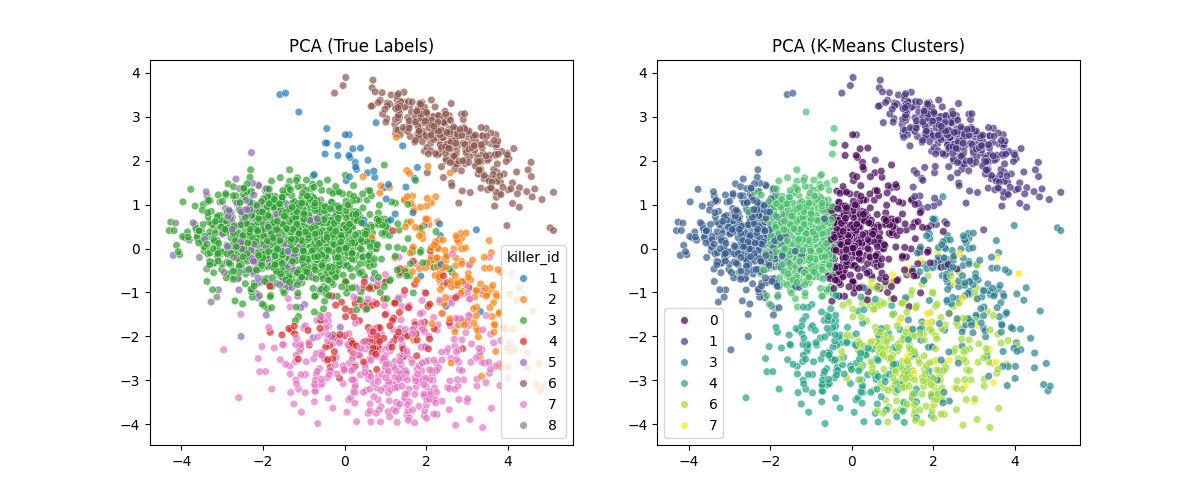
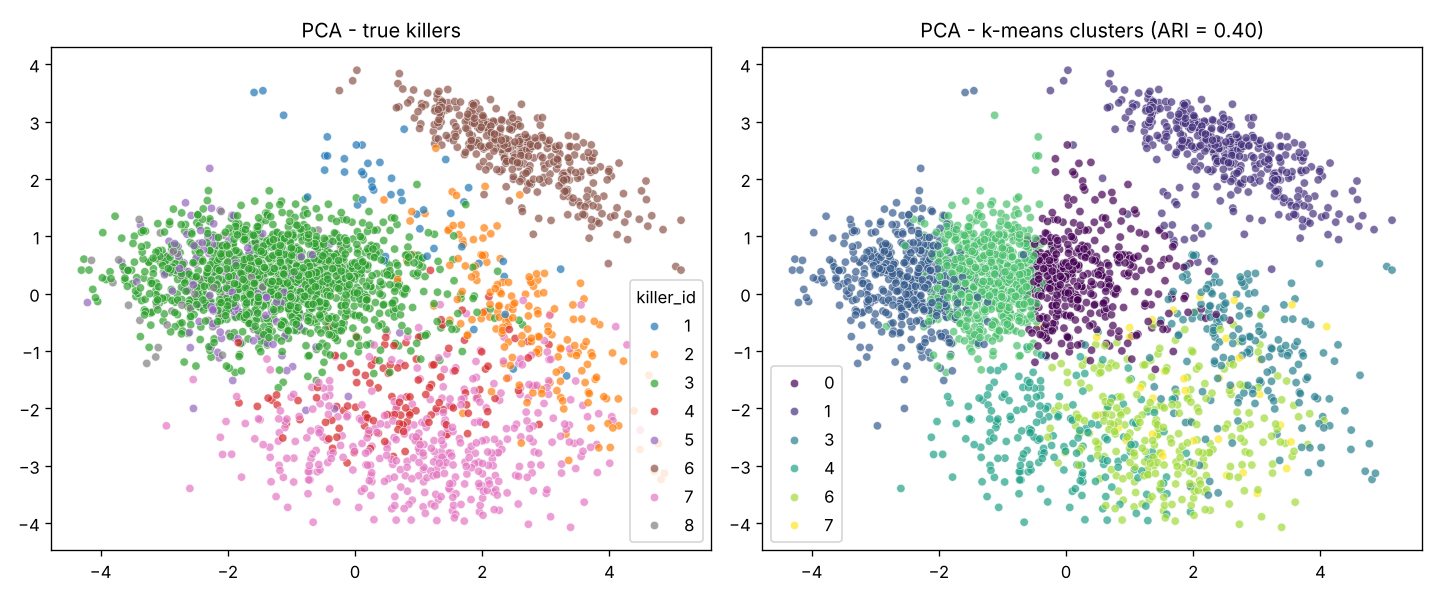
Add license, real results and class balancing

diff --git a/who_is_the_killer.py b/who_is_the_killer.py
@@ -74,6 +74,10 @@ def make_models():
         "SVM (RBF kernel)": make_pipeline(
             make_preprocessor(), SVC(kernel="rbf", random_state=SEED)
         ),
+        # Same SVM, but mistakes on rare killers cost more (weights inverse to class size).
+        "SVM (RBF, balanced weights)": make_pipeline(
+            make_preprocessor(), SVC(kernel="rbf", class_weight="balanced", random_state=SEED)
+        ),
     }
 
 
@@ -187,6 +191,25 @@ def predict_test(train, val, test, model_name, out_dir):
     submission.to_csv(out_dir / "submission.csv", index=False)
     print(f"Saved {len(submission)} predictions to {out_dir / 'submission.csv'}")
 
+    # If the TEST crimes come with their true killer, score the final model once on them.
+    if test[TARGET].notna().all():
+        truth, pred = test[TARGET].astype(int), submission[TARGET]
+        print(f"TEST ({model_name}, trained on TRAIN + VAL): "
+              f"accuracy = {accuracy_score(truth, pred):.4f}, "
+              f"balanced accuracy = {balanced_accuracy_score(truth, pred):.4f}, "
+              f"macro F1 = {f1_score(truth, pred, average='macro'):.4f}")
+
+
+def location_baseline(train, val):
+    """How far do we get with latitude and longitude alone?"""
+    where = ["latitude", "longitude"]
+    model = make_pipeline(ColumnTransformer([("num", StandardScaler(), where)]),
+                          SVC(kernel="rbf", random_state=SEED))
+    model.fit(train[FEATURES], train[TARGET])
+    pred = model.predict(val[FEATURES])
+    print(f"Location-only SVM (VAL): accuracy = {accuracy_score(val[TARGET], pred):.4f}, "
+          f"macro F1 = {f1_score(val[TARGET], pred, average='macro'):.4f}")
+
 
 def main():
     parser = argparse.ArgumentParser(description=__doc__.splitlines()[0])
@@ -208,6 +231,7 @@ def main():
     args.out.mkdir(parents=True, exist_ok=True)
     exploratory_plots(train, args.out)
     best = evaluate_models(train, val, args.out)
+    location_baseline(train, val)
     unsupervised(train, args.out)
     predict_test(train, val, test, best, args.out)
 

diff --git a/README.md b/README.md
@@ -8,13 +8,13 @@ Identifying which of 8 serial killers committed each crime, using classical patt
 
 ## The problem
 
-The "Piraeus Vice" dataset has 4,800 crimes. Each crime has the time, place, victim, weather, weapon and scene type, and the solved crimes also have the killer (1–8). The task is to train models on the solved crimes and name the most likely killer for each unsolved one.
+The "Piraeus Vice" dataset has 4,800 crimes. Each crime has the time, place, victim, weather, weapon and scene type, plus the killer (1–8). The task is to learn from known cases and name the most likely killer for new ones.
 
-| Split | Use |
-|---|---|
-| TRAIN | fit the models |
-| VAL | compare the models |
-| TEST | unsolved crimes, predicted at the end |
+| Split | Crimes | Use |
+|---|---|---|
+| TRAIN | 2,636 | fit the models |
+| VAL | 958 | compare the models |
+| TEST | 1,206 | held out, used once at the end |
 
 **Features:** 8 continuous (`hour_float`, `latitude`, `longitude`, `victim_age`, `temp_c`, `humidity`, `dist_precinct_km`, `pop_density`) and 4 categorical (`weapon_code`, `scene_type`, `weather`, `vic_gender`).
 
@@ -23,74 +23,82 @@ The "Piraeus Vice" dataset has 4,800 crimes. Each crime has the time, place, vic
 1. **Exploratory analysis:** class balance, crime locations, feature distributions.
 2. **Gaussian MLE per killer:** mean and covariance of the continuous features for each class.
 3. **Generative vs discriminative models:** Gaussian Naive Bayes, compared with Logistic Regression, an MLP (100 → 50 neurons) and an SVM with an RBF kernel. Continuous features are standardised and categorical ones one-hot encoded, inside scikit-learn pipelines.
-4. **Unsupervised view:** PCA for visualisation, then k-means with k = 8, to see whether the killers form natural clusters without using the labels.
-5. **Final prediction:** the best model is retrained on TRAIN + VAL and predicts the TEST crimes.
+4. **Class imbalance:** the same SVM with balanced class weights, so that mistakes on rare killers cost more.
+5. **Unsupervised view:** PCA for visualisation, then k-means with k = 8, to see whether the killers form natural clusters without using the labels.
+6. **Final evaluation:** the best model is retrained on TRAIN + VAL and scored once on TEST.
 
 ## Results
 
-Validation accuracy (958 crimes):
+Validation set (958 crimes):
 
-| Model | Accuracy |
-|---|---|
-| Gaussian Naive Bayes (continuous features only) | 0.833 |
-| Logistic Regression | 0.943 |
-| MLP (100, 50) | 0.936 |
-| **SVM (RBF kernel)** | **0.947** |
+| Model | Accuracy | Balanced accuracy | Macro F1 |
+|---|---|---|---|
+| Gaussian Naive Bayes (continuous features only) | 0.833 | 0.768 | 0.707 |
+| Logistic Regression | 0.943 | 0.834 | 0.856 |
+| MLP (100, 50) | 0.936 | 0.821 | 0.836 |
+| **SVM (RBF kernel)** | **0.947** | 0.839 | **0.862** |
+| SVM (RBF, balanced weights) | 0.928 | **0.886** | 0.854 |
 
-The discriminative models clearly beat Naive Bayes, and the SVM came out on top. Location turned out to be the most informative feature, because most killers operate in their own area of the city.
+The discriminative models clearly beat Naive Bayes. The plain SVM has the best accuracy and macro F1, so it is the final model.
+
+**On the held-out TEST set** (1,206 crimes), the SVM retrained on TRAIN + VAL reaches **95.6% accuracy** and **0.90 macro F1**.
 
 ### A closer look: accuracy hides the small classes
 
-Killer 3 committed about half of all crimes, so a model can score high accuracy by doing well on killer 3 alone. Per-class recall of the SVM tells a more honest story:
+Killer 3 committed about half of all crimes, so a model can score high accuracy by doing well on killer 3 alone. Per-class recall on the validation set tells a more honest story:
 
-| Killer | Crimes in VAL | Recall |
-|---|---|---|
-| 1 | 17 | 0.88 |
-| 2 | 62 | 1.00 |
-| 3 | 491 | 0.98 |
-| 4 | 45 | 0.76 |
-| 5 | 48 | 0.63 |
-| 6 | 133 | 1.00 |
-| 7 | 143 | 0.99 |
-| 8 | 19 | 0.47 |
+| Killer | Crimes in VAL | SVM | SVM, balanced weights |
+|---|---|---|---|
+| 1 | 17 | 0.88 | 0.88 |
+| 2 | 62 | 1.00 | 0.98 |
+| 3 | 491 | 0.98 | 0.92 |
+| 4 | 45 | **0.76** | **0.87** |
+| 5 | 48 | **0.63** | **0.73** |
+| 6 | 133 | 1.00 | 0.99 |
+| 7 | 143 | 0.99 | 0.97 |
+| 8 | 19 | **0.47** | **0.74** |
 
-- **Macro F1: 0.86** and **balanced accuracy: 0.84**, against 0.95 accuracy.
-- Killer 5 is often mistaken for killer 3, and killer 8 for killers 3 and 5. Their crimes overlap geographically with killer 3's.
+- Killer 5 is often mistaken for killer 3, and killer 8 for killers 3 and 5.
 - Killer 4 is confused with killer 7, the neighbouring group on the map.
+- Balanced class weights find far more of killers 4, 5 and 8 (recall 0.47 → 0.74 for killer 8), at the cost of more mistakes on killer 3. Which model is "better" depends on what matters more: overall accuracy, or not missing the rare killers.
 
 ![SVM confusion matrix](figures/confusion_matrix.png)
+
+### How much does location explain?
+
+An SVM that only sees latitude and longitude reaches 0.80 accuracy but only **0.43 macro F1**, and it never predicts killers 4, 5 or 8. Location separates the killers who work in their own area, such as killer 6, but the other features are what tell apart killers who share a neighbourhood.
 
 ### Unsupervised: do the killers form natural clusters?
 
 ![PCA coloured by true killer and by k-means cluster](figures/pca_kmeans_comparison.png)
 
-k-means finds the geographically isolated killers well (for example killer 6, top right), but it splits the large killer-3 group into several clusters and merges smaller neighbouring groups. So the structure is only partly recoverable without labels. The script measures the match with the Adjusted Rand Index (ARI) and normalised mutual information (NMI).
+k-means finds the isolated groups well, for example killer 6 at the top right. It also splits the large killer-3 group into several clusters and merges neighbouring killers in the south. The match with the true killers is moderate: **ARI = 0.40** and **NMI = 0.58**, where 1 would be a perfect match and 0 random. So the structure is only partly visible without labels.
 
-More figures are in [`figures/`](figures/): class distribution, feature histograms, killer 3's covariance matrix and the PCA scree plot.
+More figures are in [`figures/`](figures/): class distribution, feature histograms, killer 3's covariance matrix and the PCA scree plot. All numbers are in [`figures/results.csv`](figures/results.csv).
 
 ## What I would try next
 
-- `class_weight="balanced"` in the SVM and Logistic Regression, to push recall up for killers 5 and 8.
-- Tuning `C` and `gamma` with stratified cross-validation instead of a single validation split.
-- A location-only baseline, to measure how much the other features actually add.
+- Features built from location, such as the distance from each killer's centre, to help with the overlapping killers.
+- A tree-based model (for example gradient boosting) as a comparison to the SVM.
+- Cross-validation instead of a single validation split. A quick grid search over `C` and `gamma` did not beat the default SVM on the validation set.
 
 ## How to run
 
 ```bash
 pip install -r requirements.txt
-python who_is_the_killer.py data/your_file.csv
+python who_is_the_killer.py data/crimes.csv
 ```
 
-The script saves all figures, a `results.csv` with accuracy, balanced accuracy and macro F1 for every model, and the test predictions (`submission.csv`) to `figures/`. You can choose another folder with `--out`.
+The script prints all the results above. It also saves the figures, `results.csv` and the TEST predictions (`submission.csv`) to `figures/`, or to another folder with `--out`.
 
 **Data:** the dataset was provided by the course and is not included in this repository. See [`data/README.md`](data/README.md) for the expected format.
 
 ## Repository structure
 
 ```
-who_is_the_killer.py   full pipeline: EDA, models, PCA/k-means, predictions
+who_is_the_killer.py   full pipeline: EDA, models, PCA/k-means, evaluation
 requirements.txt       Python dependencies
-figures/               generated plots
+figures/               generated plots and results.csv
 data/                  put the CSV here (not tracked by git)
 ```
 

diff --git a/data/README.md b/data/README.md
@@ -10,6 +10,6 @@ Expected columns:
 |---|---|
 | `incident_id` | crime id |
 | `split` | `TRAIN`, `VAL` or `TEST` |
-| `killer_id` | killer 1–8 (empty for `TEST`) |
+| `killer_id` | killer 1–8 (can be empty for `TEST`) |
 | `hour_float`, `latitude`, `longitude`, `victim_age`, `temp_c`, `humidity`, `dist_precinct_km`, `pop_density` | continuous features |
 | `weapon_code`, `scene_type`, `weather`, `vic_gender` | categorical features |
